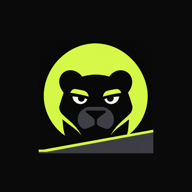
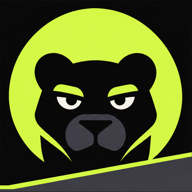
Android 圖示改成滿版

diff --git a/sw.js b/sw.js
@@ -1,5 +1,5 @@
 // 離線支援：有網路時永遠抓最新版（更新網站後馬上生效），沒網路時才用上次存下的版本
-const CACHE = 'gymlog-v7';
+const CACHE = 'gymlog-v8';
 const CORE = ['./', './index.html', './manifest.webmanifest', './icon-192.png', './icon-512.png'];
 
 self.addEventListener('install', e => {
